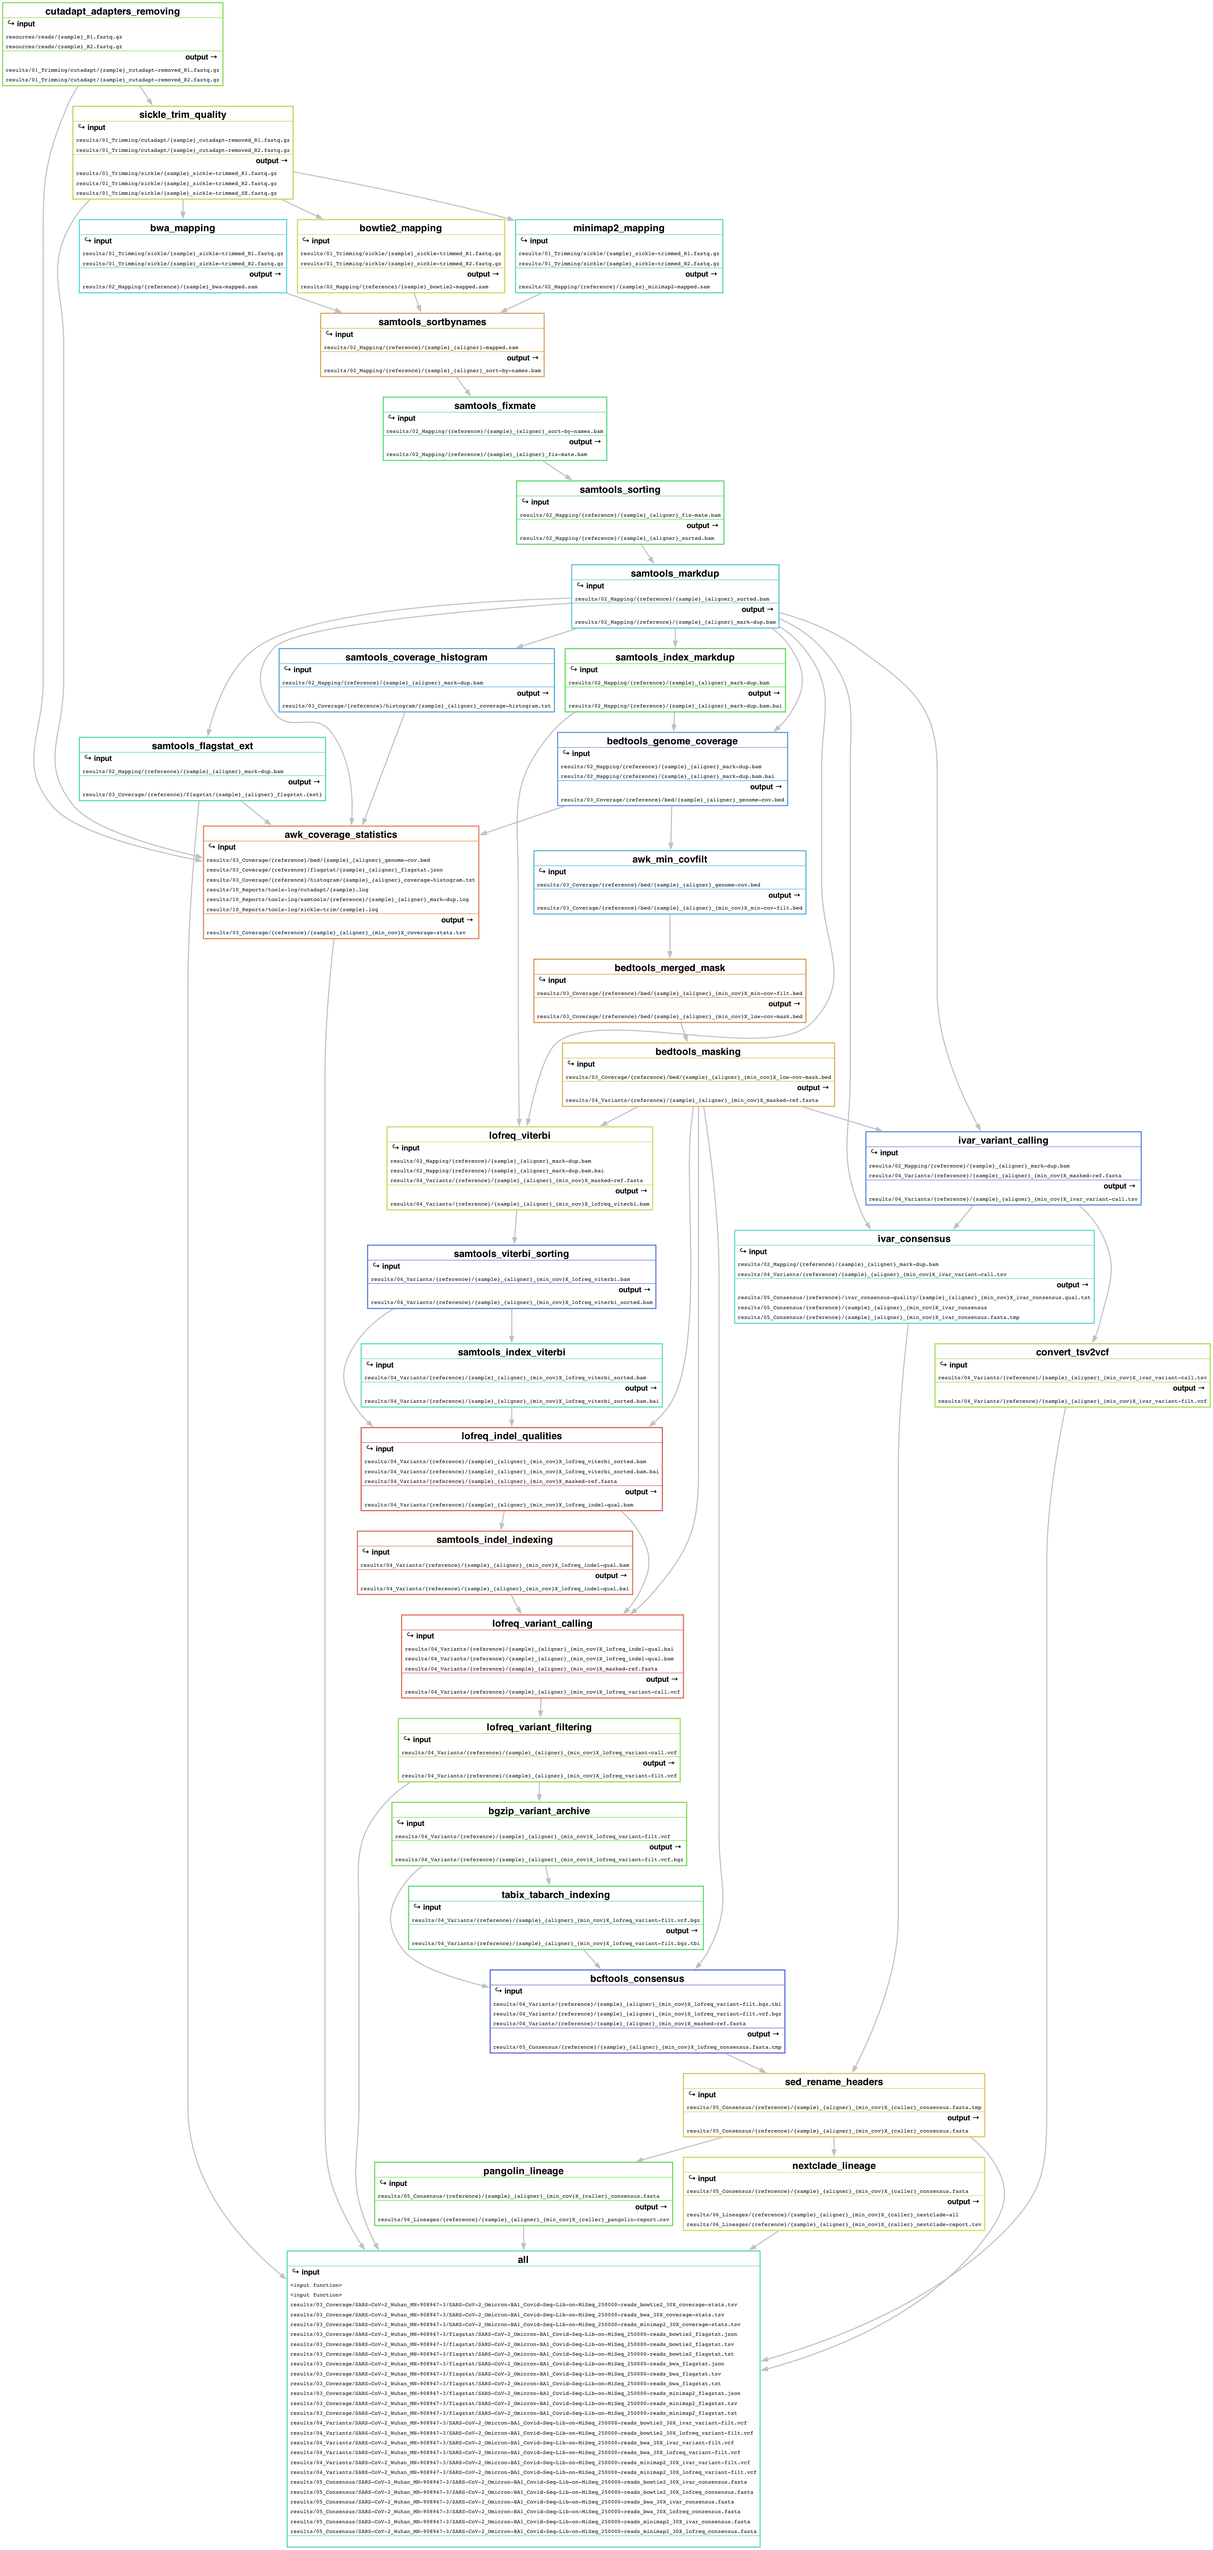
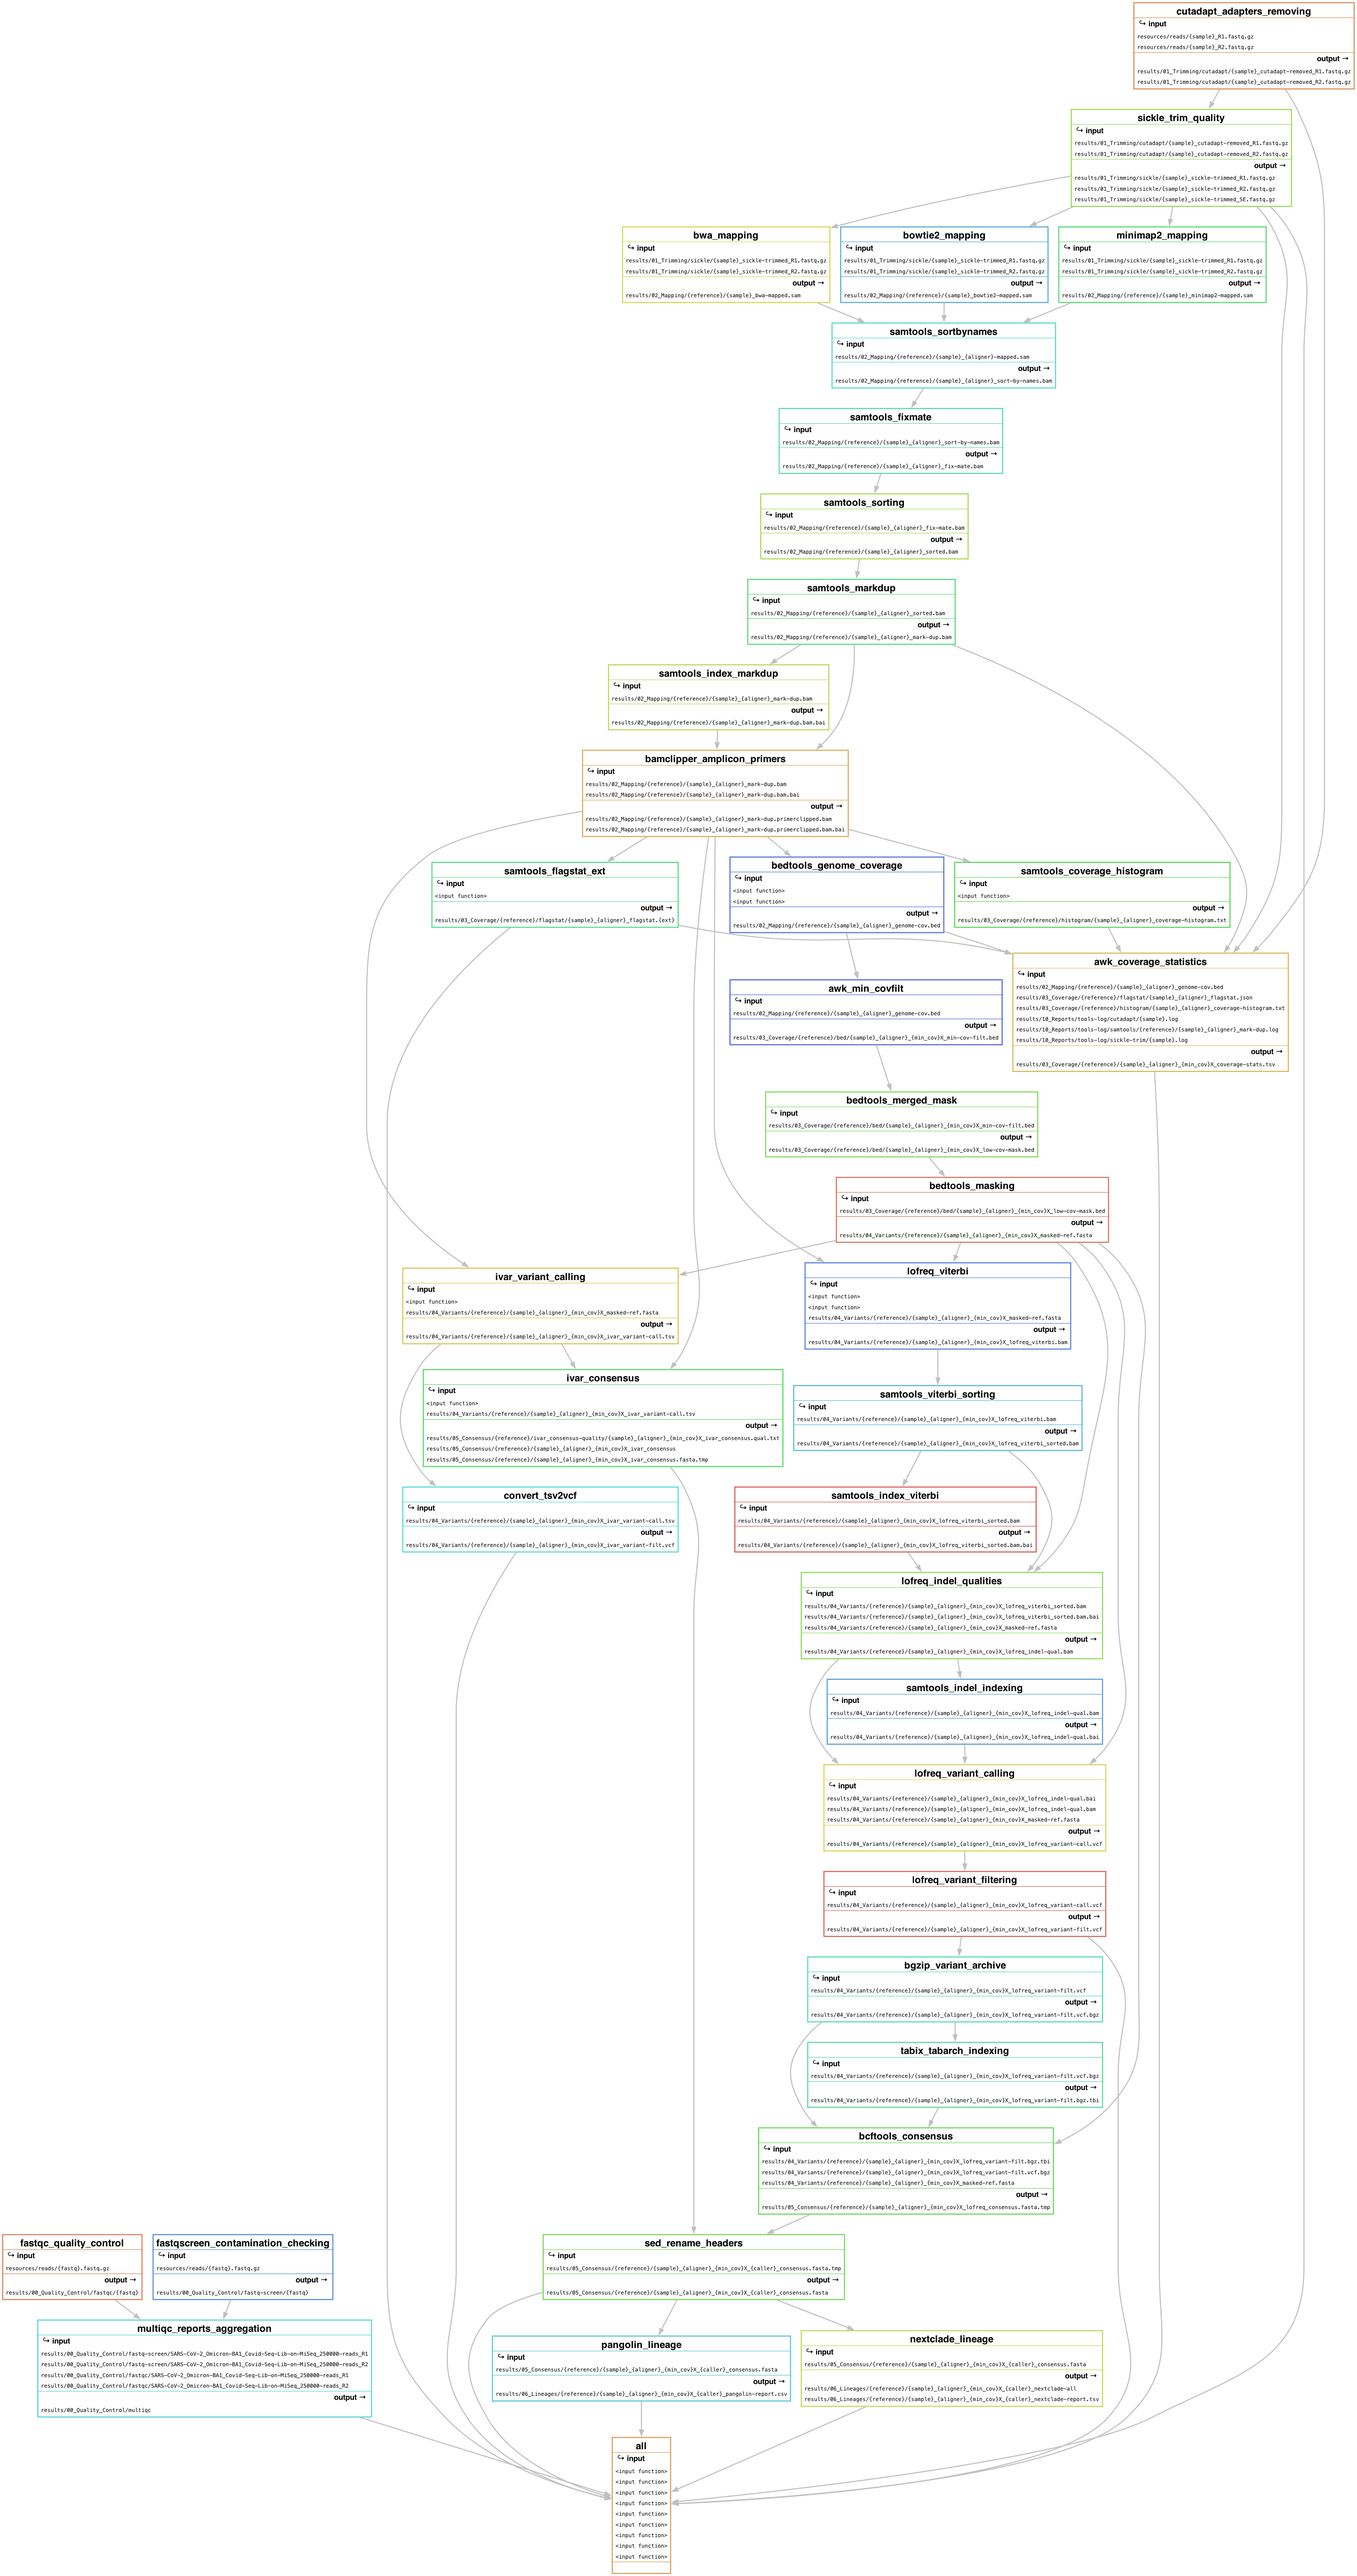
Doc: update gevarli rulegraphe and filegraph png

diff --git a/.#README.md b/.#README.md
@@ -1,0 +1,1 @@
+2021nf001@MPLCLTMP0444.local.21312
